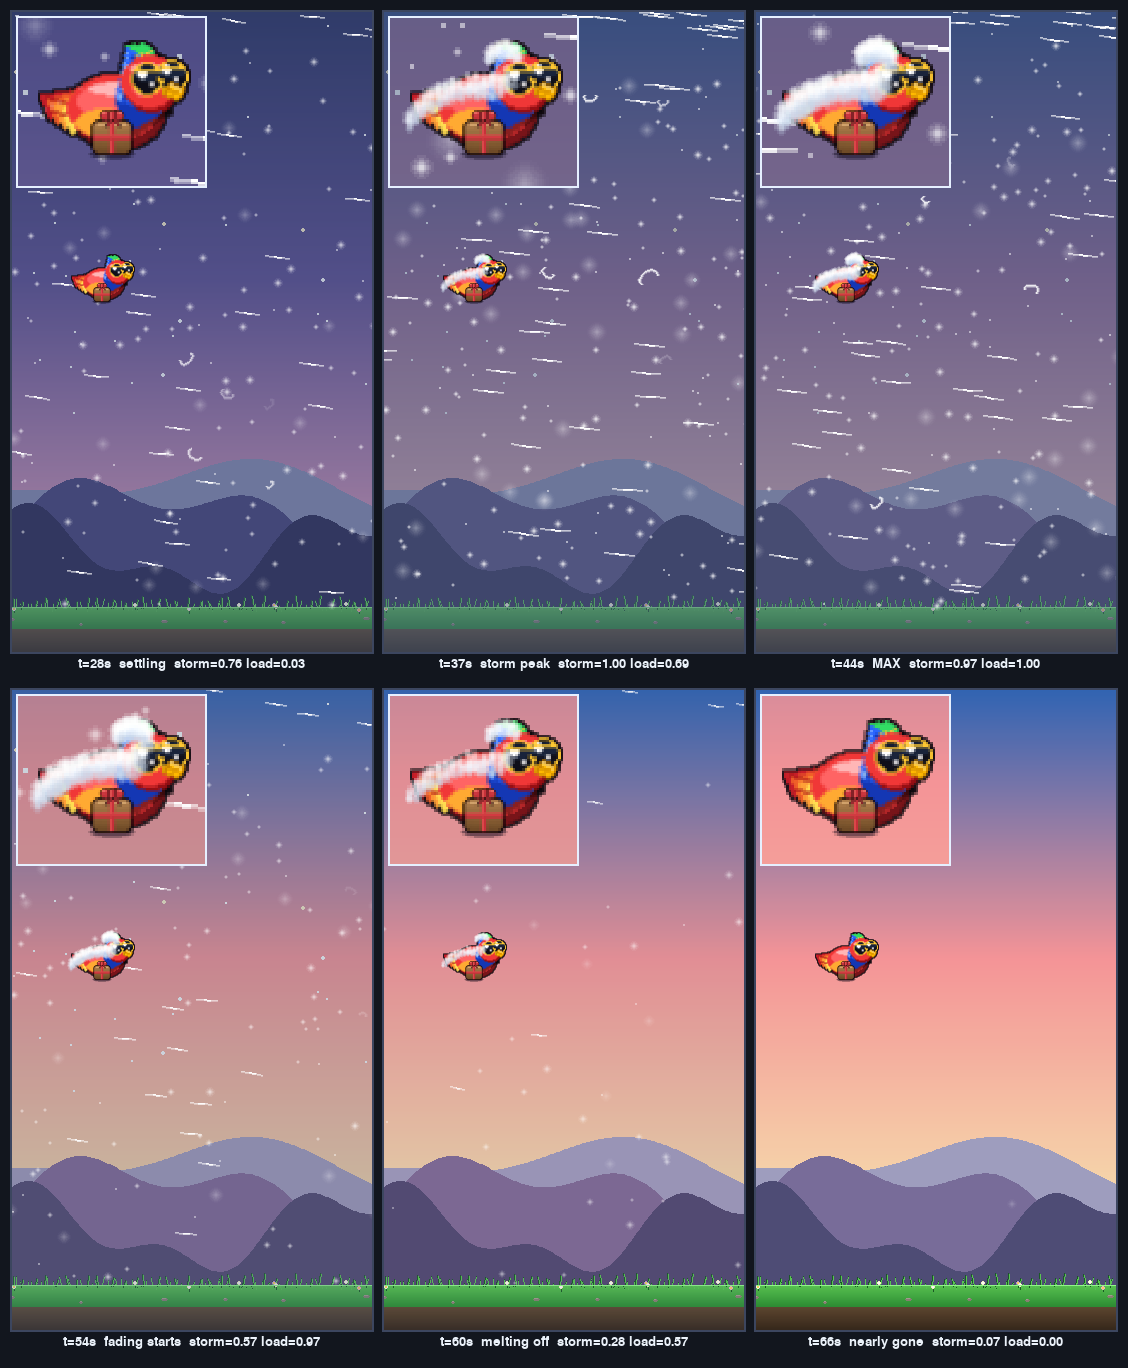
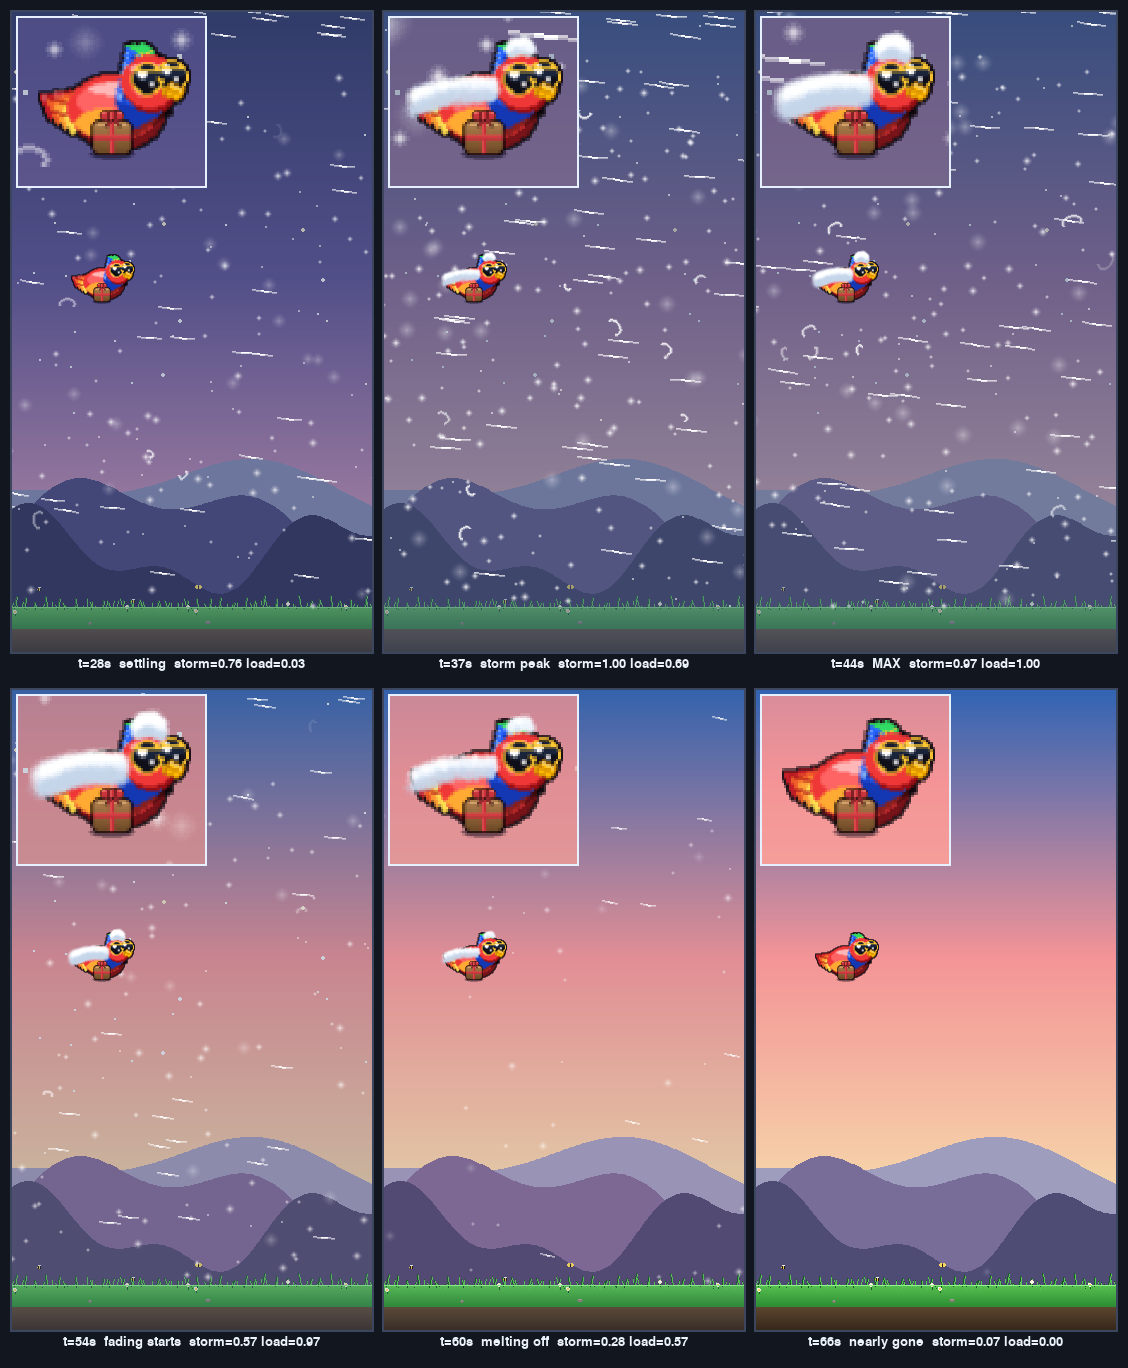
snow on back: wire in chosen placement (head+6 / back-trim 5)
Replaced _build_snow_pool with the picked variant — V4 (heaviest)
with the head cap shifted +6 px right onto the crown and the back
drift's right end trimmed 5 px so the main mass stops before
crowding the head. Recalibrated _SNOW_LINE_KEY to the correct
tail-tip-at-y-2 contour so the drift covers the tail.

Verified the live pool is byte-identical to the design tool's
v4_adjusted(6,5). The gradual stack/melt is unchanged (the
snow_load integrator already ramps it in past the storm peak and
sheds it as the storm fades). Tracks tilt at dive/level/flap.

In-game buildup + tilt screenshots regenerated. Tests: 22/22.

diff --git a/game/entities.py b/game/entities.py
@@ -239,14 +239,13 @@ def _get_grow_body_sprite() -> "tuple[pygame.Surface, int, int]":
 # settle — there is NO fixed silhouette; the drift shape emerges
 # from the accumulated flakes.
 _SNOW_LINE_KEY = (
-    (-30.0,  5.0),   # tail tip
-    (-25.0,  0.0),   # tail upper edge
-    (-19.0, -3.5),   # rump
-    (-12.0, -6.5),   # back start
-    (-5.0,  -8.0),   # back hump crest
-    (2.0,   -8.0),   # back toward shoulder
-    (8.0,   -8.5),   # shoulder
-    (13.0, -10.5),   # upper back, just behind the head
+    (-31.0, -2.0),   # tail tip (upper edge)
+    (-25.0, -4.0),   # tail upper
+    (-19.0, -6.0),   # rump
+    (-12.0, -8.0),   # back
+    (-5.0,  -8.5),   # back crest
+    (2.0,   -8.0),   # back/shoulder
+    (8.0,   -9.0),   # shoulder
 )
 
 _SNOW_DISC_CACHE: dict = {}
@@ -299,78 +298,80 @@ def _build_snow_pool():
                 return y0 + (y1 - y0) * f
         return key[-1][1]
 
-    def along_w(x):
-        # Snow blankets the WHOLE upper surface fairly evenly — only
-        # the very tail tip and the approach to the head taper off,
-        # so the tail + upper back/shoulder both get covered (not a
-        # single mid-back blob).
-        if x < -31.0 or x > 14.0:
-            return 0.0
-        w = 1.0
-        if x > 9.0:                        # ease off as we near the head
-            w *= max(0.30, 1.0 - (x - 9.0) / 7.0)
-        if x < -27.0:                      # ease off at the thin tail tip
-            w *= max(0.40, 1.0 - (-27.0 - x) / 5.0)
-        return w
-
-    M = 210
-    bx0, bx1 = -31.0, 15.0
-    by0, by1 = -15.0, 12.0
     A1, A2 = 0.7548776662, 0.5698402910    # R2 low-discrepancy seq
     pool = []
+
+    # ── Back drift (tail → back → shoulder) ──────────────────────
+    # Heavy coverage; the right (head-ward) end is TRIMMED so the
+    # main mass doesn't run under the head (chosen "back-trim 5").
+    def back_along(x):
+        if x < -29.0:                      # ease off at the thin tail tip
+            return max(0.6, 1.0 - (-29.0 - x) / 4.0)
+        if x > 3.0:                        # trim the right end
+            return max(0.4, 1.0 - (x - 3.0) / 4.0)
+        return 1.0
+
+    bx0, bx1 = -29.5, 6.0
+    by0, by1 = -11.0, 11.0
+    M = 300
     for i in range(M):
         u = (0.5 + A1 * (i + 1)) % 1.0
         v = (0.5 + A2 * (i + 1)) % 1.0
         x = bx0 + u * (bx1 - bx0)
         y = by0 + v * (by1 - by0)
         dy = y - line_y(x)                 # distance below the snow line
-        if dy < -3.5:                      # too high above the back → off body
+        if dy < -1.5:                      # barely any above the line (no float)
             continue
-        if dy < 0.0:                       # crest ABOVE the line: soft taper
-            wy = max(0.0, 1.0 + dy / 3.5)  # ~0 at the very top → 1 at the line
-        elif dy <= 2.5:
+        if dy < 0.0:
+            wy = max(0.0, 1.0 + dy / 1.5) * 0.6
+        elif dy <= 4.0:
             wy = 1.0
-        else:                              # shallow layer — snow hugs the TOP,
-            wy = max(0.0, 1.0 - (dy - 2.5) / 5.5)   # not bulging down the side
+        else:
+            wy = max(0.0, 1.0 - (dy - 4.0) / 6.0)
         wind = 1.0 + max(0.0, -x) / 55.0   # slight windward (rear) bias
         noise = 0.78 + 0.22 * ((math.sin(i * 12.9898) * 43758.5453) % 1.0)
-        w = along_w(x) * wy * wind * noise
+        w = back_along(x) * wy * wind * noise * 1.2
         if w <= 0.001:
             continue
         pool.append((x, y, dy, w))
 
-    # Head crown cap — a separate, lighter snow cap on TOP of Pip's
-    # head (it settles on the highest point too). Kept above the
-    # sunglasses and tapering off the front so it never covers his
-    # face. The nape dips between the back and the head, so this is
-    # its own region rather than an extension of the back line.
+    # ── Head crown cap ───────────────────────────────────────────
+    # Snow on TOP of his head, shifted RIGHT onto the crown (chosen
+    # "head+6") and kept clear of the sunglasses.
+    CX, X_LO, X_HI = 16.0, 10.0, 22.0
     def crown_y(x):
-        return -22.5 + 0.07 * (x - 9.0) ** 2     # dome, top at x≈9
-    hx0, hx1 = 2.0, 17.0
-    hy0, hy1 = -26.0, -13.0
-    MH = 70
+        return -25.0 + 0.09 * (x - CX) ** 2
+    def crown_along(x):
+        w = 1.0
+        if x > X_HI - 3.0:
+            w *= max(0.18, 1.0 - (x - (X_HI - 3.0)) / 3.0)
+        if x < X_LO + 2.0:
+            w *= max(0.30, 1.0 - ((X_LO + 2.0) - x) / 2.0)
+        return w
+
+    hy0, hy1 = -29.0, -17.0
+    MH = 110
+    SEED = 900
     for i in range(MH):
-        u = (0.5 + A1 * (i + 1 + M)) % 1.0
-        v = (0.5 + A2 * (i + 1 + M)) % 1.0
-        x = hx0 + u * (hx1 - hx0)
+        u = (0.5 + A1 * (i + 1 + SEED)) % 1.0
+        v = (0.5 + A2 * (i + 1 + SEED)) % 1.0
+        x = X_LO + u * (X_HI - X_LO)
         y = hy0 + v * (hy1 - hy0)
         dy = y - crown_y(x)
-        if dy < -3.0:
+        if dy < -1.5:
+            continue
+        if x > 13.0 and y > -17.0:         # never spill onto the face/lenses
             continue
         if dy < 0.0:
-            wy = max(0.0, 1.0 + dy / 3.0)
-        elif dy <= 2.0:
+            wy = max(0.0, 1.0 + dy / 1.5) * 0.6
+        elif dy <= 2.5:
             wy = 1.0
         else:
-            wy = max(0.0, 1.0 - (dy - 2.0) / 4.0)
-        hw = 1.0
-        if x > 13.0:                       # taper toward the face/front
-            hw *= max(0.18, 1.0 - (x - 13.0) / 5.0)
-        if x < 4.0:                        # taper at the nape edge
-            hw *= max(0.30, 1.0 - (4.0 - x) / 4.0)
-        wind = 1.0 + max(0.0, -(x - 9.0)) / 45.0
-        noise = 0.78 + 0.22 * ((math.sin((i + 999) * 12.9898) * 43758.5453) % 1.0)
-        w = hw * wy * wind * noise * 0.80  # lighter than the back drift
+            wy = max(0.0, 1.0 - (dy - 2.5) / 3.5)
+        wind = 1.0 + max(0.0, -(x - CX)) / 45.0
+        noise = 0.78 + 0.22 * ((math.sin((i + SEED) * 12.9898)
+                                * 43758.5453) % 1.0)
+        w = crown_along(x) * wy * wind * noise
         if w <= 0.001:
             continue
         pool.append((x, y, dy, w))
